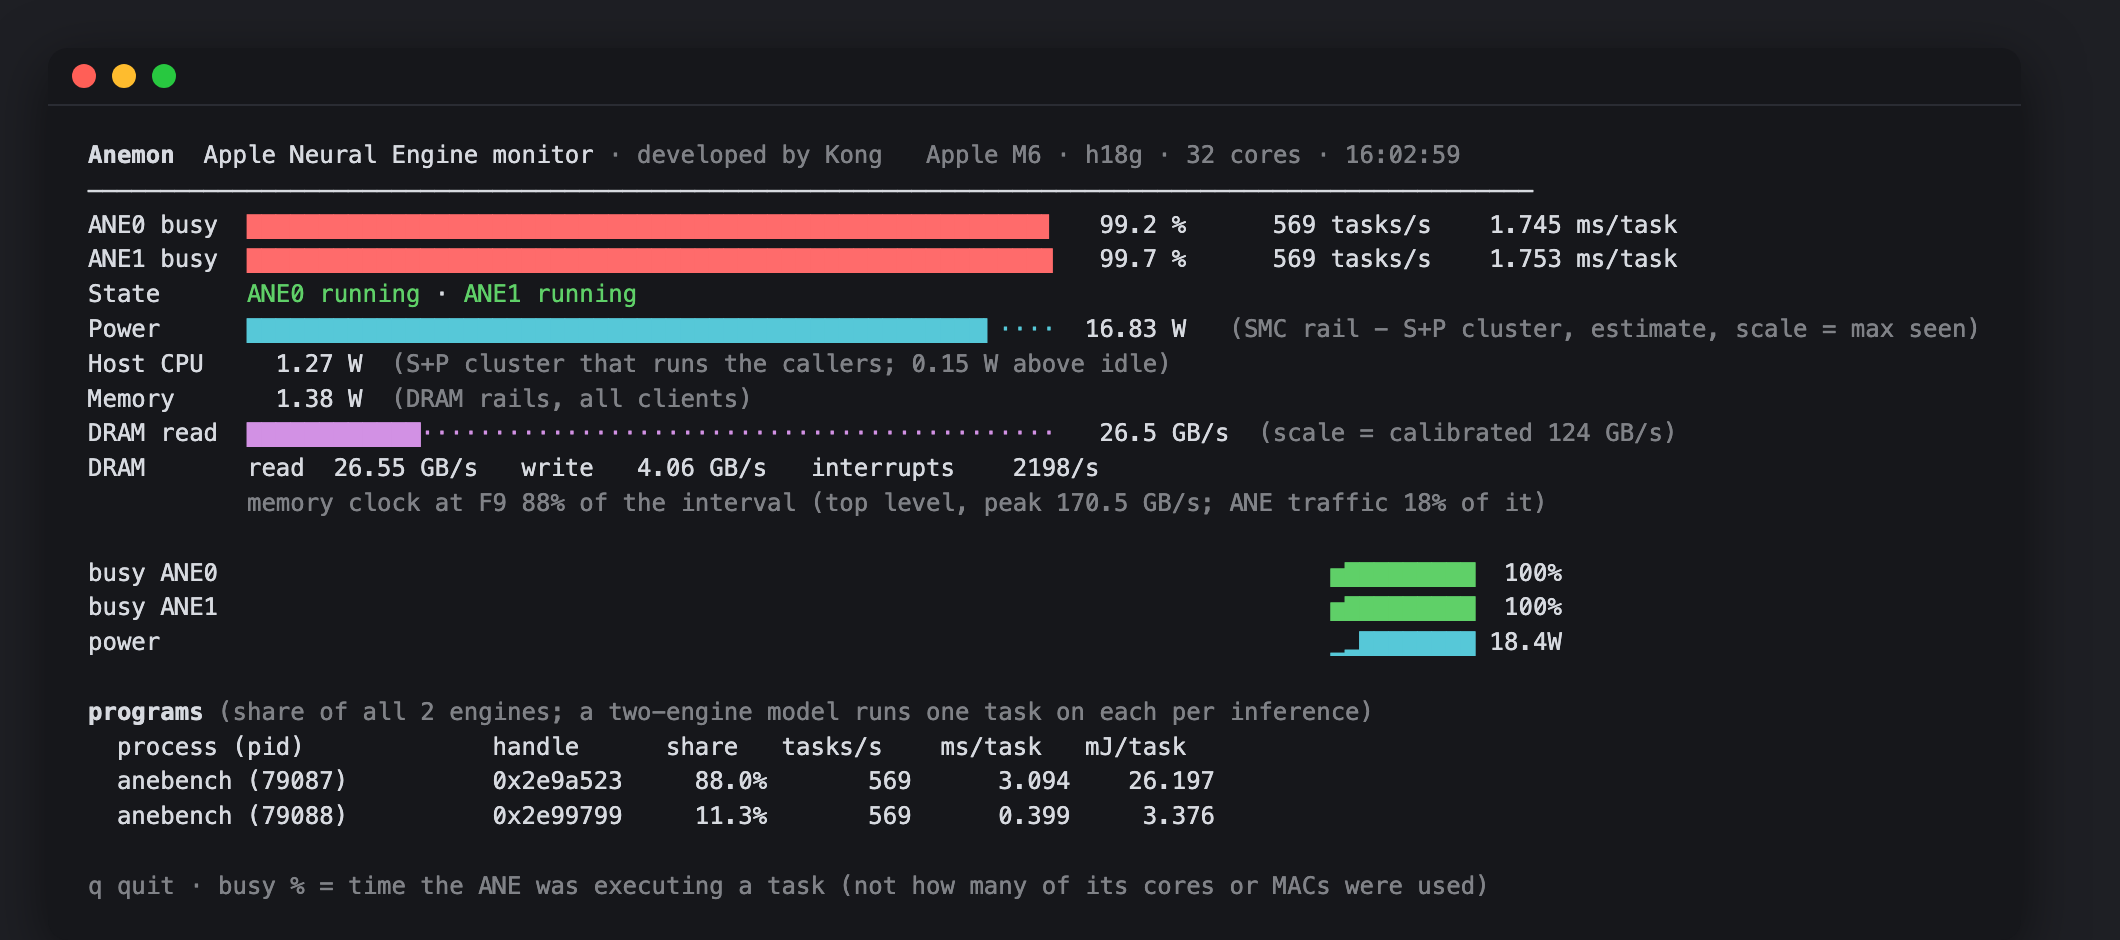
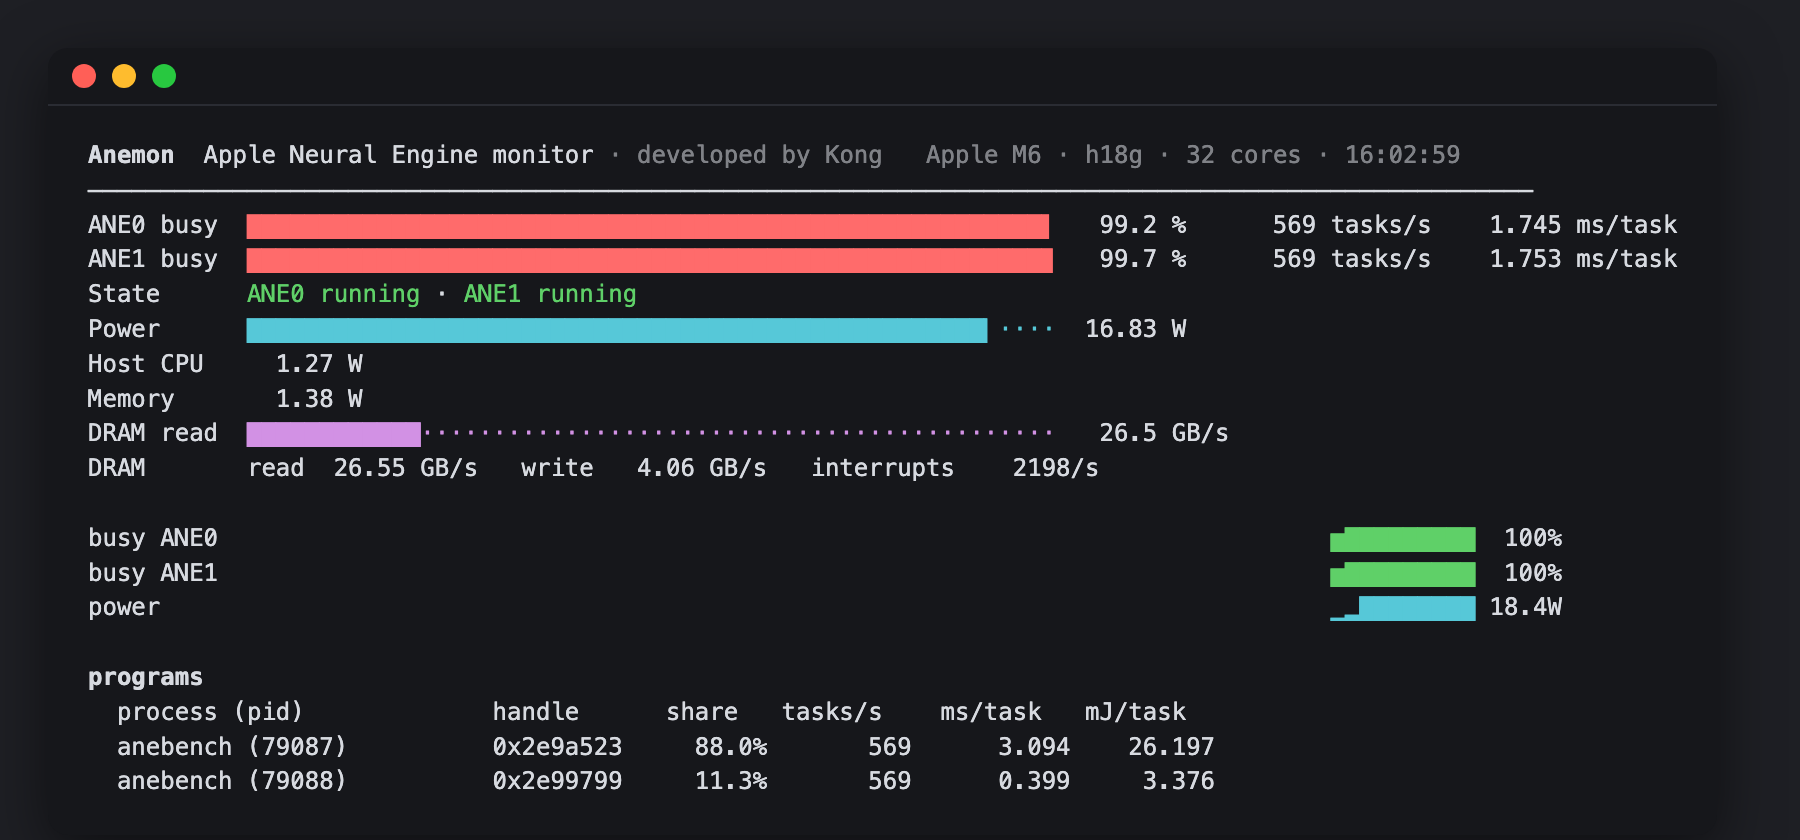
Screen: drop the grey annotations, keep only the header in grey
Removed the source and scale notes after Power, Host CPU, Memory and DRAM
read, the memory clock line, the power-off countdown, the busy-source and
estimated-task notes, the waiting messages, the programs header note and
the footer. Yellow and red warnings stay; "off" in the State line is shown
in the normal colour. The countdown and memory clock level remain in the JSON
output. Screenshot and README updated to match.

Changed region(s): [[0.0311, 0.1548, 0.9333, 0.9595], [0.6222, 0.5881, 0.8711, 0.7429], [0.0311, 0.0619, 0.0933, 0.1238]]

diff --git a/Sources/anemon/TUI.swift b/Sources/anemon/TUI.swift
@@ -65,7 +65,7 @@ final class TUI {
 
     func render(_ s: Snapshot, monitor: Monitor) {
         let device = monitor.device
-        let (maxW, maxMeasured) = monitor.powerScaleW
+        let maxW = monitor.powerScaleW.watts
         let w = min(width, 100)
         let barW = max(10, w - 44)
         if history.count < s.busyPct.count { history += Array(repeating: [], count: s.busyPct.count - history.count) }
@@ -92,89 +92,46 @@ final class TUI {
             o += "\(esc)33mANE busy   not available: IOReport shows ANE activity, but no ANE task events arrive\n"
             o += "           on this chip / macOS. Please report the output of calibration/scripts/trace_decode.sh.\(esc)0m\n"
         } else {
-            if s.busySource == .host && s.sleptS > 1 {
-                o += String(format: "\(esc)2mANE busy from driver events: firmware task events are lost once the Mac has slept (%.0f min since boot); a reboot restores them\(esc)0m\n", s.sleptS / 60)
-            } else if s.busySource == .host {
-                o += "\(esc)2mANE busy from driver submit/complete events (firmware events absent); includes queueing time\(esc)0m\n"
-            } else if s.busyStatus == .unverified {
-                o += "\(esc)2mno ANE task events yet; idle cannot be confirmed from IOReport on this chip\(esc)0m\n"
-            }
             for (i, b) in s.busyPct.enumerated() {
                 let name = s.busyPct.count > 1 ? "ANE\(i) busy" : "ANE busy "
                 let avg = s.avgTaskMs[i].map { String(format: "%8.3f ms/task", $0) } ?? "               "
                 o += String(format: "%@  %@%@\(esc)0m %6.1f %%  %7.0f tasks/s %@\n",
                             name, color(b), bar(b / 100, barW), b, s.tasksPerS[i], avg)
-                if s.estimatedPct[i] > 20 {
-                    o += String(format: "\(esc)2m           %.0f%% of tasks were only partly reported by the firmware; their time is estimated\(esc)0m\n", s.estimatedPct[i])
-                }
             }
         }
-        if !s.aneState.isEmpty || s.anePowerOffInS != nil {
-            var st = s.aneState.enumerated().map { (i, v) in
-                let col = v == "running" ? "\(esc)32m" : v == "off" ? "\(esc)2m" : "\(esc)33m"
+        if !s.aneState.isEmpty {
+            let st = s.aneState.enumerated().map { (i, v) in
+                let col = v == "running" ? "\(esc)32m" : v == "off" ? "" : "\(esc)33m"
                 return "\(col)\(s.aneState.count > 1 ? "ANE\(i) " : "")\(v)\(esc)0m"
             }.joined(separator: " · ")
-            if let left = s.anePowerOffInS, let idle = s.aneIdleS {
-                st += String(format: "   \(esc)2midle %.1f s, powers off in %.1f s (first call after that ≈ 50 ms slower)\(esc)0m", idle, left)
-            } else if s.aneState.allSatisfy({ $0 == "off" }) && !s.aneState.isEmpty {
-                st += "   \(esc)2mpowered off: the next call boots the firmware first\(esc)0m"
-            }
             o += "State      \(st)\n"
         }
         if let t = s.throttlePct, t > 0 {
             o += String(format: "\(esc)31mThrottled  %.0f%% of the interval (%@)\(esc)0m\n", t, s.throttleKinds.joined(separator: ", "))
         }
         if let p = s.powerW {
-            // Full scale: the highest ANE power measured on this chip (M4: 3.4 W
-            // at 31 TOPS INT8), or the highest value seen so far on others.
-            let scale = maxMeasured ? "" : ", scale = max seen"
-            let src = s.powerSource == "smc_estimate"
-                ? "SMC rail − \(monitor.chipModel?.hostClusterName ?? "P cluster"), estimate" : "powermetrics estimate"
-            o += String(format: "Power      \(esc)36m%@\(esc)0m %6.2f W   \(esc)2m(%@%@)\(esc)0m\n",
-                        bar(p / maxW, barW), p, src, scale)
-        } else if !monitor.hasPower {
-            o += "\(esc)2mPower      needs root (run with sudo)\(esc)0m\n"
-        } else if monitor.awaitingPowerBaseline {
-            o += "\(esc)2mPower      waiting for an idle ANE interval to set the baseline…\(esc)0m\n"
-        } else {
-            o += "\(esc)2mPower      waiting for powermetrics…\(esc)0m\n"
+            // Full scale: the calibrated peak, or the highest value seen if higher.
+            o += String(format: "Power      \(esc)36m%@\(esc)0m %6.2f W\n", bar(p / maxW, barW), p)
         }
         if let h = s.hostCPUW {
-            let cluster = monitor.chipModel?.hostClusterName ?? "P cluster"
-            var line = String(format: "Host CPU   %6.2f W  \(esc)2m(%@ that runs the callers", h, cluster)
-            if let x = s.hostCPUExtraW { line += String(format: "; %.2f W above idle", x) }
-            line += ")\(esc)0m"
+            var line = String(format: "Host CPU   %6.2f W", h)
             if let x = s.hostCPUExtraW, let p = s.powerW, p > 0.3, x > p {
                 line += "\n\(esc)33m           the host spends more power than the ANE: many small calls? batch them or use a larger model\(esc)0m"
-            }
-            if h > 10, s.powerW != nil {
-                line += "\n\(esc)2m           P cores are busy too: the ANE power estimate is less accurate (about ±1 W)\(esc)0m"
             }
             o += line + "\n"
         }
         if let m = s.memoryPowerW {
-            o += String(format: "Memory     %6.2f W  \(esc)2m(DRAM rails, all clients)\(esc)0m\n", m)
+            o += String(format: "Memory     %6.2f W\n", m)
         }
         if let r = s.dramReadGBs, let maxR = monitor.maxReadGBs {
-            o += String(format: "DRAM read  \(esc)35m%@\(esc)0m %6.1f GB/s  \(esc)2m(scale = calibrated %.0f GB/s)\(esc)0m\n",
-                        bar(r / maxR, barW), r, maxR)
+            o += String(format: "DRAM read  \(esc)35m%@\(esc)0m %6.1f GB/s\n", bar(r / maxR, barW), r)
         }
-        var dram = s.dramReadGBs.map { r in String(format: "read %6.2f GB/s   write %6.2f GB/s", r, s.dramWriteGBs ?? 0) }
-            ?? "\(esc)2mn/a (no ANE DRAM counters on this chip)\(esc)0m"
+        var dram = s.dramReadGBs.map { r in String(format: "read %6.2f GB/s   write %6.2f GB/s   ", r, s.dramWriteGBs ?? 0) } ?? ""
         if let c = s.dramClippedPct, c > 10 {
             dram += String(format: "  \(esc)33m(lower bound: %.0f%% of samples at the histogram top)\(esc)0m", c)
         }
-        let irq = s.interruptsPerS.map { String(format: "interrupts %7.0f/s", $0) } ?? "\(esc)2minterrupts n/a\(esc)0m"
-        o += "DRAM       \(dram)   \(irq)\n"
-        if let lvl = s.dramLevel, let pct = s.dramLevelPct {
-            var line = String(format: "\(esc)2m           memory clock at %@ %.0f%% of the interval", lvl, pct)
-            if let peak = s.dramPeakGBs {
-                line += String(format: " (top level, peak %.1f GB/s", peak)
-                if let r = s.dramReadGBs { line += String(format: "; ANE traffic %.0f%% of it", 100 * (r + (s.dramWriteGBs ?? 0)) / peak) }
-                line += ")"
-            }
-            o += line + "\(esc)0m\n"
-        }
+        let irq = s.interruptsPerS.map { String(format: "interrupts %7.0f/s", $0) } ?? ""
+        if !dram.isEmpty || !irq.isEmpty { o += "DRAM       \(dram)\(irq)\n" }
         o += "\n"
         let sw = max(10, w - 14)
         for (i, h) in history.enumerated() {
@@ -184,9 +141,7 @@ final class TUI {
             o += String(format: "power     \(esc)36m%@\(esc)0m %4.1fW\n", spark(powerHistory, max: maxW, sw), maxW)
         }
         if !s.programs.isEmpty {
-            o += s.engines > 1
-                ? "\n\(esc)1mprograms\(esc)0m \(esc)2m(share of all \(s.engines) engines; a two-engine model runs one task on each per inference)\(esc)0m\n"
-                : "\n\(esc)1mprograms (ANE time this interval)\(esc)0m\n"
+            o += "\n\(esc)1mprograms\(esc)0m\n"
             o += "  process (pid)             handle      share   tasks/s    ms/task   mJ/task\n"
             for p in s.programs.prefix(8) {
                 let share = s.share(p)
@@ -202,7 +157,6 @@ final class TUI {
         if s.traceRestarts > 0 {
             o += "\(esc)33mkdebug buffer overflowed and was restarted \(s.traceRestarts)× — busy % may be low this interval\(esc)0m\n"
         }
-        o += "\n\(esc)2mq quit · busy % = time the ANE was executing a task (not how many of its cores or MACs were used)\(esc)0m\n"
         out(o)
     }
 }

diff --git a/README.md b/README.md
@@ -23,12 +23,12 @@ Options: `--interval SECONDS` (default 1), `--count N`, `--no-power`.
 | Line | Meaning | Root |
 |---|---|---|
 | `ANE busy` | Share of time each engine was executing a task; tasks/s and mean ms/task | yes |
-| `State` | Each engine running or off; on M6, the countdown to power-off (5.7 s after the last task) | no |
+| `State` | Each engine running or off (JSON also gives the countdown to power-off) | no |
 | `Throttled` | Shown while a throttle trigger is active | no |
 | `Power` | ANE power from the SMC rail PP0b minus the CPU cluster on the same rail (M4, M6) | no |
 | `Host CPU` | Power of the cores that call the ANE; warns when they draw more than the ANE (many small calls) | no |
 | `Memory` | M6: power of the DRAM rails, for all of memory's clients | no |
-| `DRAM` | ANE read/write traffic, interrupts, and the memory clock level | no |
+| `DRAM` | ANE read/write traffic and interrupts (JSON also gives the memory clock level) | no |
 | `programs` | Per process: share of the ANE, tasks/s, ms/task and energy per task (mJ) | yes |
 
 **busy % is time occupancy, not compute utilization**, and not speed either:
